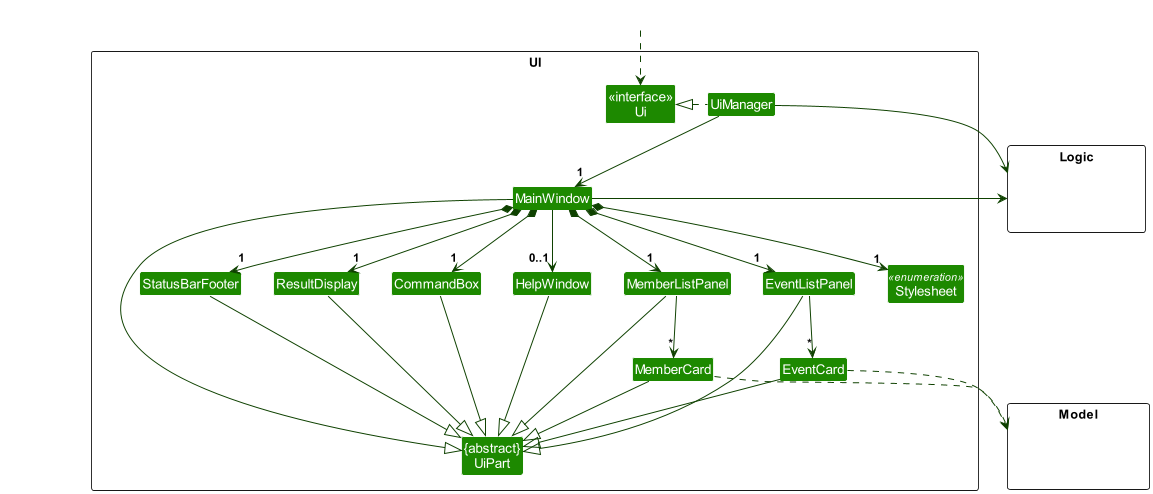
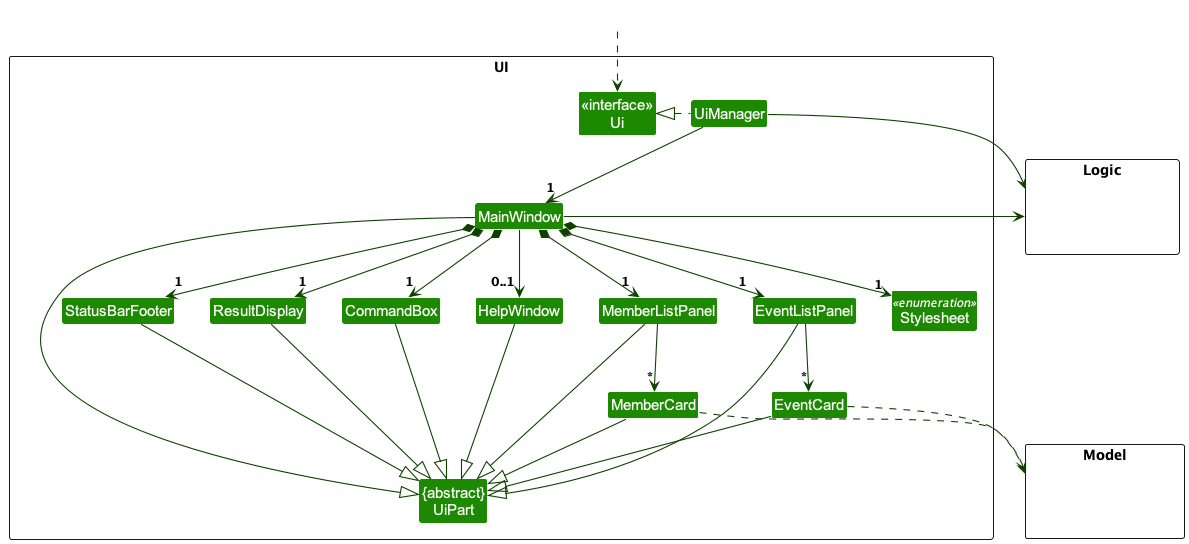
DG:Update UIClassDiagram and link to model

diff --git a/docs/DeveloperGuide.md b/docs/DeveloperGuide.md
@@ -74,7 +74,7 @@ The sections below give more details of each component.
 
 The **API** of this component is specified in [`Ui.java`](https://github.com/AY2324S1-CS2103T-F11-1/tp/blob/master/src/main/java/seedu/ccacommander/ui/Ui.java)
 
-<img src="images/UiClassDiagram.png" width="1200px" style="margin-left:-130px; max-width:1000px" alt="Structure of the UI Component"/>
+<img src="images/UiClassDiagram.png" width="1000px" style="margin-left:-130px; max-width:1000px" alt="Structure of the UI Component"/>
 
 The UI consists of a `MainWindow` that is made up of parts e.g.`CommandBox`, `ResultDisplay`, `MemberListPanel`, `StatusBarFooter` etc. All these, including the `MainWindow`, inherit from the abstract `UiPart` class which captures the commonalities between classes that represent parts of the visible GUI.
 
@@ -121,7 +121,7 @@ How the parsing works:
 **API** : [`Model.java`](https://github.com/AY2324S1-CS2103T-F11-1/tp/blob/master/src/main/java/seedu/ccacommander/model/Model.java)
 * The class diagram below gives an overview of the model package.<br/>
 *Details of the `Member`, `Event`, and `Enrolment` packages have be omitted for brevity.
-Please refer to the [Member](#member-class-diagram), [Event](#event-class-diagram) and [Enrolment](#enrolment-model) diagrams for more information.*
+Please refer to the [Member](#member-model), [Event](#event-model) and [Enrolment](#enrolment-model) diagrams for more information.*
 
 <img src="images/ModelClassDiagram.png" width="740px" />
 
@@ -166,7 +166,7 @@ The class diagram below shows the current implementation of `Member` model.
 ![MemberClassDiagram](images/MemberClassDiagram.png)
 Every `Member` contains a `Name`,`Gender`, `Optional<Phone>`, `Optional<Email>`, `Optional<Address>`, `Optional<Hours>`, `Optional<Remark>` and a set of `Tags`
 
-**Design Considerations**
+#### Design Considerations
 
 This section elaborates further on why we chose to adopt a `Name` over other potential
 solutions.
